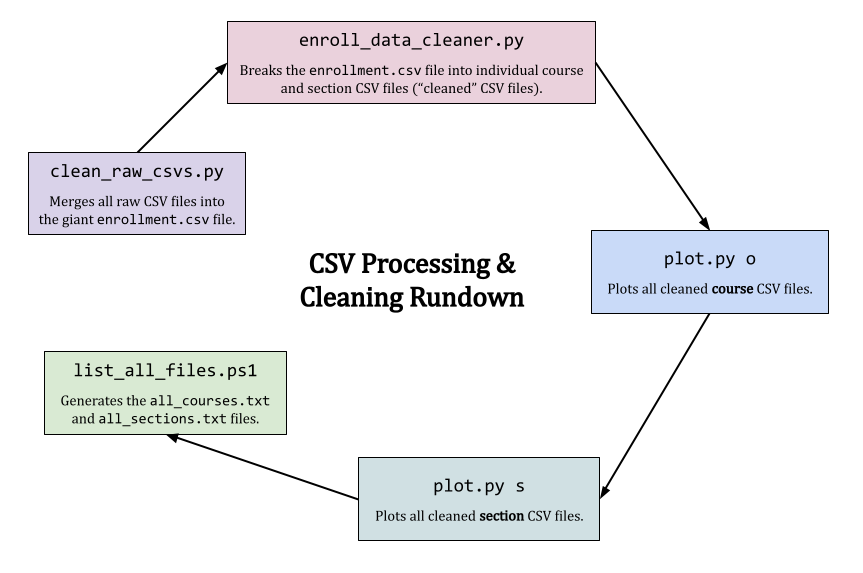
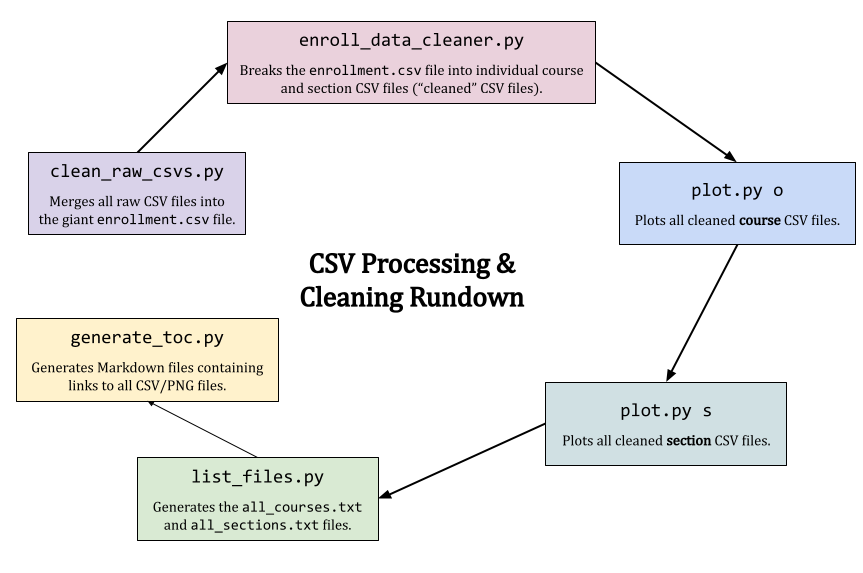
replace list_all_files.ps1 script with list_files.py script

Changed region(s): [[0.0, 0.2373, 0.9942, 0.9494], [0.6929, 0.1187, 0.7833, 0.2373], [0.7833, 0.2077, 0.8134, 0.2373]]

diff --git a/scripts/list_files.py b/scripts/list_files.py
@@ -1,0 +1,23 @@
+import os
+
+def get_all_files(dir, target):
+    res = ""
+    for file in os.listdir(dir):
+        # check if the file isa ctually a file
+        if not os.path.isfile(os.path.join(dir, file)):
+            continue
+
+        # check if file has extension .csv
+        if not file.endswith(".csv"):
+            continue
+
+        # append file name to res, removing the extension
+        res += file[:-4] + "\n"
+
+    # write res to file with encoding UTF-8 
+    with open(target, "w", encoding="utf-8") as f:
+        f.write(res)
+
+
+get_all_files("overall", "all_courses.txt")
+get_all_files("section", "all_sections.txt")

diff --git a/docs/scripts.md b/docs/scripts.md
@@ -8,7 +8,7 @@ Whenever I'm processing the raw CSV files, I have the following scripts (and the
 | `clean_raw_csvs.py` | A Python script that takes one term folder and combines all raw data into one file -- `enrollment.csv` -- that can then be broken up. This script is also responsible for validating that each row in the raw CSV files are valid (and removes any invalid rows). | `fix_inconsistent_csv.py` |
 | `enroll_data_cleaner.py` | A Python script that takes one term folder and "cleans" the data by breaking the `enrollment.csv` file into class or section CSV files and putting those CSV files in the `overall` or `section` folders. | |
 | `plot.py` | A Python script that takes one term folder and, using the cleaned data in said folder, creates graphs for each CSV file in the `overall` and `section` folders. | `pandas` <br> `matplotlib` <br> `seaborn` |
-| `list_all_files.ps1` | A PowerShell script that simply puts all the courses and sections that I have data for in a text file. | |
+| `list_files.py` | A Python script that simply puts all the courses and sections that I have data for in a text file. | |
 | `generate_toc.py` | A Python script that generates a Markdown file containing links to all CSV and graph files. This is a workaround for the limitation on GitHub where GitHub only displays 1000 files. | |
 
 There are also several general scripts designed to streamline this process.
